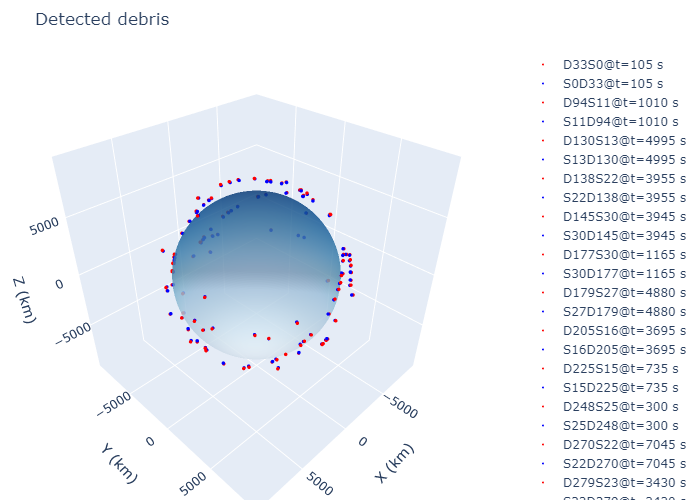
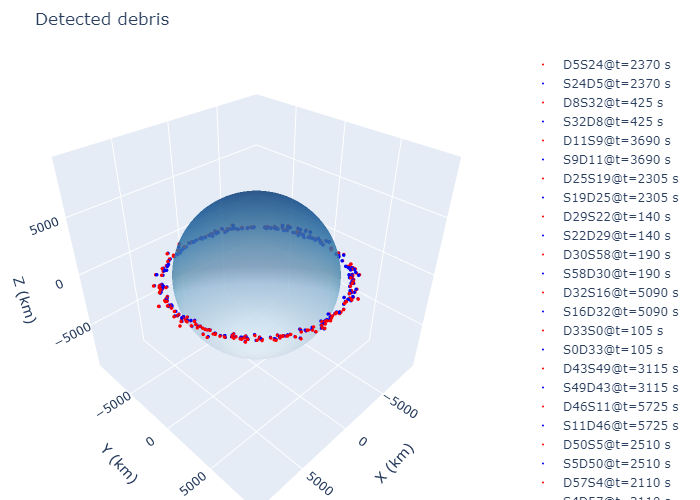
last commit probably

diff --git a/Optimization/constellation_benchmark.py b/Optimization/constellation_benchmark.py
@@ -8,27 +8,26 @@ from astropy import units as u
 
 
 #### Simulation 
-time_of_flight = 2 * u.hour                                         # Time of flight of the simulation [h]
+time_of_flight = 24 * u.hour                                         # Time of flight of the simulation [h]
 start_time = 0*u.s                                                  # Start time of the simulation [s]
 max_timestep = 5.0*u.s                                              # timestep of the simulation [s]
 sim = Simulation (time_of_flight, start_time, max_timestep)         # Create a simulation object
-simid = "11.0"
+simid = "bigtime"
 #### Radar
 radar = Radar()                                                     # Create a radar object
 
 #### Constellation
-num_orbits = 13                                                     # Number of orbits in the constellation              
-sats_per_orbit = 4                                                  # Number of satellites per orbit                  
-num_sats = num_orbits * sats_per_orbit                              # Number of satellites in the constellation
+num_orbits = 14                                                     # Number of orbits in the constellation. 14 allows the entire LEO range to be covered.                              
+num_sats = 50                                                       # Number of satellites in the constellation. will be distributed according to the Gaussian Mixture Model.
 hmin = 450                                                          # Minimum altitude of the constellation [km]
-raan_spacing = 360/num_orbits                                                    # Spacing between the orbits in the RAAN
+raan_spacing = 0                                                    # Spacing between the orbits in the RAAN
 raan_0 = 0                                                          # RAAN of the first orbit
-i_spacing = 180/num_orbits                                                       # Spacing between the orbits in the inclination
+i_spacing = 0                                                       # Spacing between the orbits in the inclination
 i_0 =  0                                                            # Inclination of the first orbit
 e = 0.00                                                            # Eccentricity of the orbits
 
-# Parameters of the Gaussian Mixture Model
-w1, mu1, s1, w2, mu2, s2 = 9.95456643, 789.88707892, 80.099526, 12.15301612, 1217.49579881, 458.32509372                                                                
+# Parameters of the Gaussian Mixture Model  
+w1, mu1, s1, w2, mu2, s2 = 9.95456643, 789.88707892, 80.099526, 12.15301612, 1217.49579881, 458.32509372                # parameters learned through PSO run 2                                                  
 
 #### Debris
 debris_num = 2000                                                   # Number of debris objects
@@ -40,4 +39,4 @@ dist, altitudes = satellite_dist(num_orbits = num_orbits, num_sats = num_sats, w
 # Create a constellation object
 const = Constellation(altitudes = altitudes, sat_distribution = dist, i_spacing = i_spacing, i_0 = i_0, raan_spacing = raan_spacing, raan_0 = raan_0, eccentricity = e) 
 # Run the simulation, plot the results and return the efficiency
-consteff = main(sim, const, deb_orbits, deb_d, radar, plot = True, gpu = True, simid = simid, saveplot = True) 
+consteff = main(sim, const, deb_orbits, deb_d, radar, plot = False, gpu = True, simid = simid, saveplot = False) 

diff --git a/Optimization/numsats_study.py b/Optimization/numsats_study.py
@@ -1,0 +1,56 @@
+from simulation import Radar, Constellation, Simulation, main, generate_debris
+from gaussian import satellite_dist
+import numpy as np
+import matplotlib.pyplot as plt
+from astropy import units as u
+
+
+
+
+#### Simulation 
+time_of_flight = 2 * u.hour                                         # Time of flight of the simulation [h]
+start_time = 0*u.s                                                  # Start time of the simulation [s]
+max_timestep = 5.0*u.s                                              # timestep of the simulation [s]
+sim = Simulation (time_of_flight, start_time, max_timestep)         # Create a simulation object
+simid = "11.0"
+#### Radar
+radar = Radar()                                                     # Create a radar object
+
+#### Constellation
+num_orbits = 14                                                     # Number of orbits in the constellation              
+sats_per_orbit = 4                                                  # Number of satellites per orbit                  
+#num_sats = 14                                                      # Number of satellites in the constellation
+hmin = 450                                                          # Minimum altitude of the constellation [km]
+raan_spacing = 0                                                    # Spacing between the orbits in the RAAN
+raan_0 = 0                                                          # RAAN of the first orbit
+i_spacing = 0                                                       # Spacing between the orbits in the inclination
+i_0 =  0                                                            # Inclination of the first orbit
+e = 0.00                                                            # Eccentricity of the orbits
+
+# Parameters of the Gaussian Mixture Model
+w1, mu1, s1, w2, mu2, s2 = 9.95456643, 789.88707892, 80.099526, 12.15301612, 1217.49579881, 458.32509372                                                                
+
+#### Debris
+debris_num = 2000                                                   # Number of debris objects
+use_new_dataset = False                                             # Use a new dataset for the debris
+deb_orbits, deb_d = generate_debris(debris_num, use_new_dataset)    # Generate the debris objects
+
+
+## loop for increasing number of satellites
+alleffs = []
+for num_sats in range(14, 60, 1):
+    # Generate the satellite distribution
+    dist, altitudes = satellite_dist(num_orbits = num_orbits, num_sats = num_sats, w1=w1, mu1=mu1, s1=s1, w2=w2, mu2=mu2, s2=s2, hmin=hmin)                                 
+    # Create a constellation object
+    const = Constellation(altitudes = altitudes, sat_distribution = dist, i_spacing = i_spacing, i_0 = i_0, raan_spacing = raan_spacing, raan_0 = raan_0, eccentricity = e) 
+    # Run the simulation, plot the results and return the efficiency
+    consteff = main(sim, const, deb_orbits, deb_d, radar, plot = True, gpu = True, simid = simid, saveplot = True) 
+    alleffs.append(consteff)
+    print("Number of satellites: ", num_sats, "Efficiency: ", consteff)
+
+plt.scatter(range(14, 60, 1), alleffs)
+plt.xlabel("Number of satellites")
+plt.ylabel("Efficiency")
+plt.title("Efficiency of the constellation with increasing number of satellites")
+plt.savefig("Optimization\sim_results\constellation_benchmark.png")
+plt.show()

diff --git a/Optimization/simulation.py b/Optimization/simulation.py
@@ -771,7 +771,7 @@ def main(sim:Simulation, const:Constellation, deb_orbits, deb_diameters, rad:Rad
 if __name__ == "__main__":
 
     #### Simulation 
-    time_of_flight = 0.71 * u.hour
+    time_of_flight = 2 * u.hour
     start_time = 0*u.s      # Start time of the simulation
     max_timestep = 5.0*u.s  # timestep of the simulation
     test_sim = Simulation (time_of_flight, start_time, max_timestep)
@@ -795,7 +795,7 @@ if __name__ == "__main__":
 
     #### Debris 
     use_new_dataset = False                                 # Set to False to use the test dataset, True to use the MASTER-2009 model
-    total_debris = 100                                     # Number of debris particles to simulate. if not using the test dataset, can be arbitrarily chosen.
+    total_debris = 2000                                     # Number of debris particles to simulate. if not using the test dataset, can be arbitrarily chosen.
                                                             # if using the test dataset, must be one of the following: 100, 200, 300, 400, 500, 600, 700, 800, 900, 1000, 2000, 3000, 4000, 5000, 6000, 7000, 8000, 9000, 10000
 
     #### Radar
